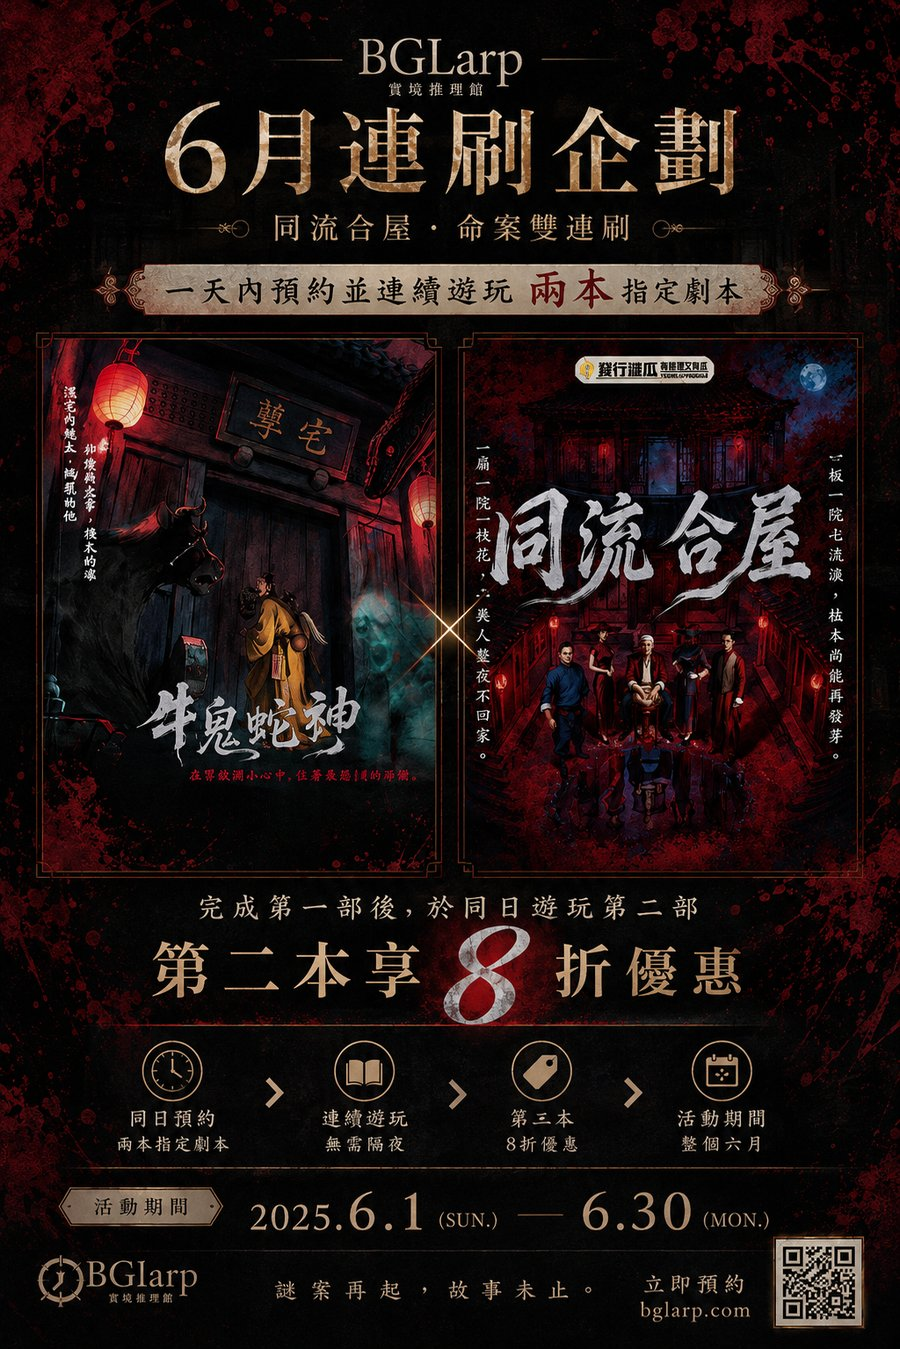
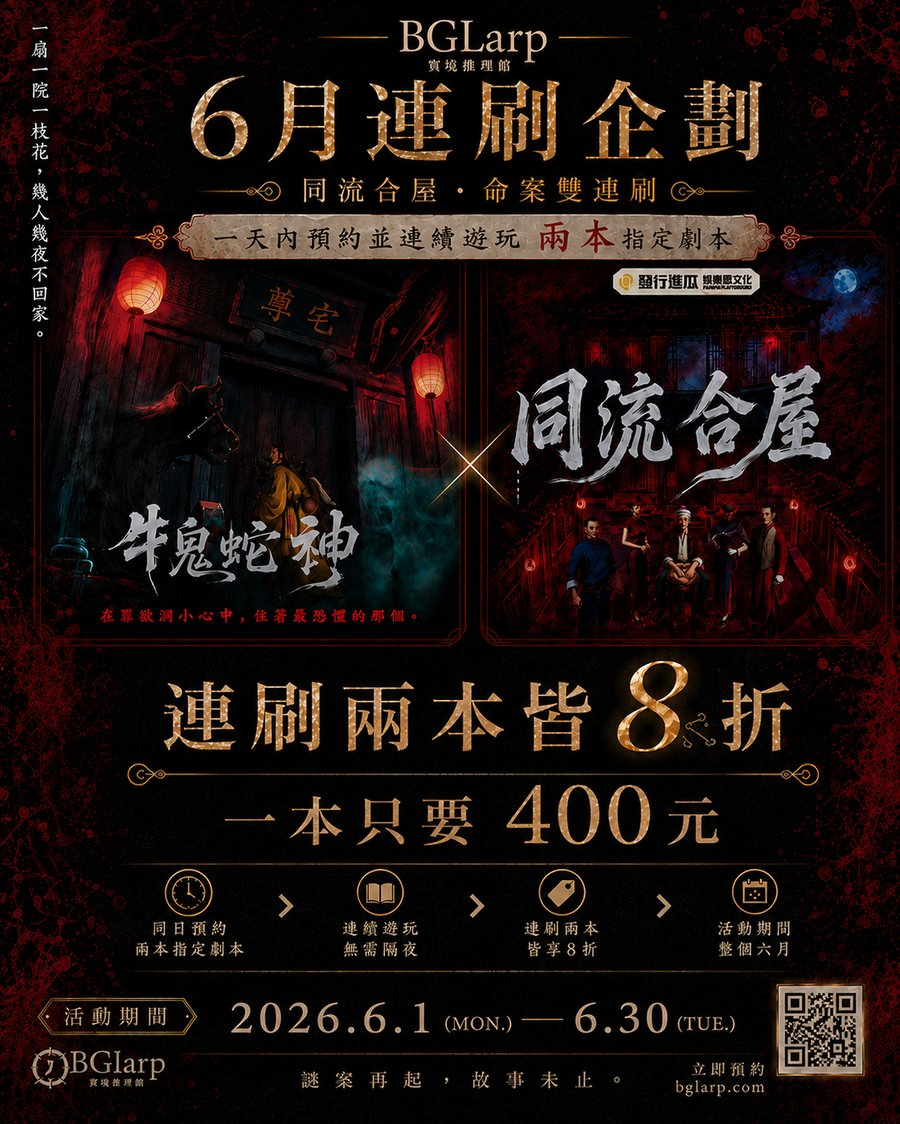
chore: refresh 同流+牛鬼 promo poster, add 惠子+禁閉 promo
- Replace jun-niugui-tongliu.jpg with new redesign
- Add 4th promo: jun-huizi-jinbi.jpg (惠子 X 禁閉兇間 單日連刷 800)

diff --git a/src/components/ScriptGrid.js b/src/components/ScriptGrid.js
@@ -19,6 +19,10 @@ const PROMOTIONS = [
         src: '/promotions/jun-guhunling.jpg',
         alt: '6月連刷企劃：蠱魂鈴系列 4選2 連刷',
     },
+    {
+        src: '/promotions/jun-huizi-jinbi.jpg',
+        alt: '6月連刷企劃：惠子 X 禁閉兇間 單日連刷 800 元',
+    },
 ];
 const LUXURY_NOTES = [
     '時長長 - 屁股要有把握撐住',
